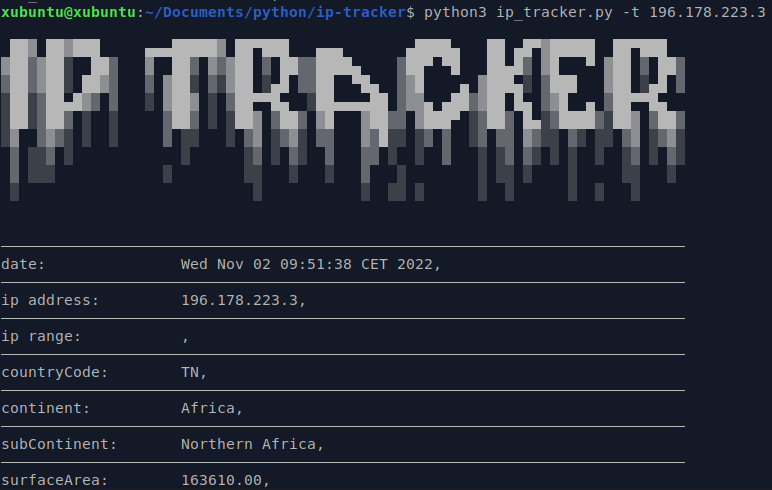
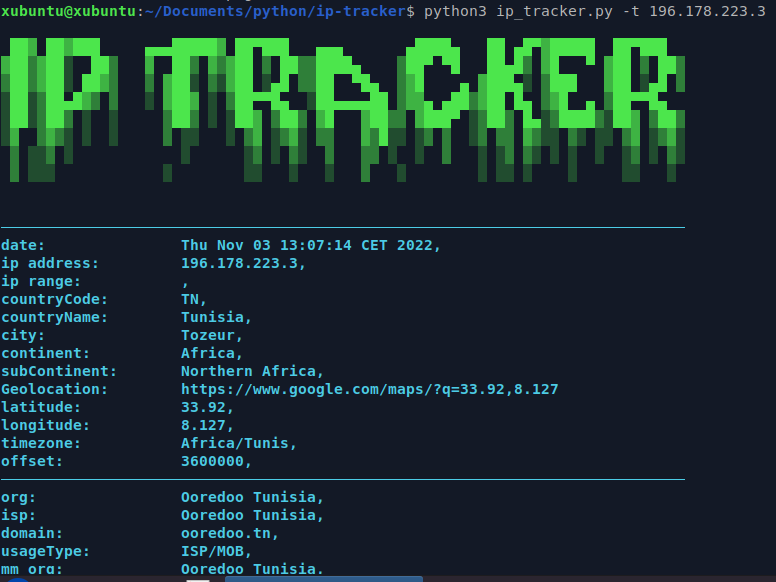
google maps link

Changed region(s): [[0.0, 0.0, 0.9948, 1.0]]

diff --git a/ip_tracker.py b/ip_tracker.py
@@ -3,7 +3,7 @@
 import argparse
 import requests
 import json
-import sys
+import sys, time
 
 
 base_url = 'https://geo.leadboxer.com/GeoIpEngine/'
@@ -15,8 +15,19 @@ args = parser.parse_args()
 
 ip = args.target if args.target else ''
 
-def printer(data):
-    print(
+HEADER = '\033[95m'
+OKBLUE = '\033[94m'
+OKCYAN = '\033[96m'
+OKGREEN = '\033[92m'
+WARNING = '\033[93m'
+FAIL = '\033[91m'
+ENDC = '\033[0m'
+BOLD = '\033[1m'
+UNDERLINE = '\033[4m'
+
+def banner():
+    
+    print(OKGREEN +
 '''
  ██▓ ██▓███     ▄▄▄█████▓ ██▀███   ▄▄▄       ▄████▄   ██ ▄█▀▓█████  ██▀███  
 ▓██▒▓██░  ██▒   ▓  ██▒ ▓▒▓██ ▒ ██▒▒████▄    ▒██▀ ▀█   ██▄█▒ ▓█   ▀ ▓██ ▒ ██▒
@@ -26,72 +37,51 @@ def printer(data):
 ░▓  ▒▓▒░ ░  ░     ▒ ░░   ░ ▒▓ ░▒▓░ ▒▒   ▓▒█░░ ░▒ ▒  ░▒ ▒▒ ▓▒░░ ▒░ ░░ ▒▓ ░▒▓░
  ▒ ░░▒ ░            ░      ░▒ ░ ▒░  ▒   ▒▒ ░  ░  ▒   ░ ░▒ ▒░ ░ ░  ░  ░▒ ░ ▒░
  ▒ ░░░            ░        ░░   ░   ░   ▒   ░        ░ ░░ ░    ░     ░░   ░ 
- ░                          ░           ░  ░░ ░      ░  ░      ░  ░   ░     
 '''
-            )
-    print(
+)
+
+def printer(data):
+    print(BOLD + OKCYAN + 
 f'''
 ────────────────────────────────────────────────────────────────────────────
 date:               {data["date"]},
-────────────────────────────────────────────────────────────────────────────
 ip address:         {data["ip"]},
-────────────────────────────────────────────────────────────────────────────
 ip range:           {data["ip range"]},
-────────────────────────────────────────────────────────────────────────────
 countryCode:        {data["countryCode"]},
-────────────────────────────────────────────────────────────────────────────
-continent:          {data["continent"]},
-────────────────────────────────────────────────────────────────────────────
-subContinent:       {data["subContinent"]},
-────────────────────────────────────────────────────────────────────────────
-surfaceArea:        {data["surfaceArea"]},
-────────────────────────────────────────────────────────────────────────────
-population:         {data["population"]},
-────────────────────────────────────────────────────────────────────────────
-lifeExpectency:     {data["lifeExpectency"]},
-────────────────────────────────────────────────────────────────────────────
-GNP:                {data["GNP"]},
-────────────────────────────────────────────────────────────────────────────
 countryName:        {data["countryName"]},
-────────────────────────────────────────────────────────────────────────────
-region:             {data["region"]},
-────────────────────────────────────────────────────────────────────────────
-regionName:         {data["regionName"]},
-────────────────────────────────────────────────────────────────────────────
 city:               {data["city"]},
-────────────────────────────────────────────────────────────────────────────
+continent:          {data["continent"]},
+subContinent:       {data["subContinent"]},
+Geolocation:        https://www.google.com/maps/?q={data["latitude"]},{data["longitude"]}
 latitude:           {data["latitude"]},
-────────────────────────────────────────────────────────────────────────────
 longitude:          {data["longitude"]},
-────────────────────────────────────────────────────────────────────────────
 timezone:           {data["timezone"]},
-────────────────────────────────────────────────────────────────────────────
-offset:             {data["timezone"]},
-────────────────────────────────────────────────────────────────────────────
-world currency:     {data["world currency"]},
-────────────────────────────────────────────────────────────────────────────
-EU member:          {data["EU member"]},
+offset:             {data["offset"]},
 ────────────────────────────────────────────────────────────────────────────
 org:                {data["org"]},
-────────────────────────────────────────────────────────────────────────────
 isp:                {data["isp"]},
-────────────────────────────────────────────────────────────────────────────
 domain:             {data["domain"]},
-────────────────────────────────────────────────────────────────────────────
 usageType:          {data["usageType"]},
-────────────────────────────────────────────────────────────────────────────
 mm_org:             {data["mm_org"]},
-────────────────────────────────────────────────────────────────────────────
 mm_isp:             {data["mm_isp"]},
-────────────────────────────────────────────────────────────────────────────
 i2l_isp:            {data["i2l_isp"]},
-────────────────────────────────────────────────────────────────────────────
 i2l_domain:         {data["i2l_domain"]},
-────────────────────────────────────────────────────────────────────────────
 i2l_type:           {data["i2l_type"]}
-────────────────────────────────────────────────────────────────────────────s
+────────────────────────────────────────────────────────────────────────────
+region:             {data["region"]},
+regionName:         {data["regionName"]},
+surfaceArea:        {data["surfaceArea"]},
+population:         {data["population"]},
+lifeExpectency:     {data["lifeExpectency"]},
+GNP:                {data["GNP"]},
+world currency:     {data["world currency"]},
+EU member:          {data["EU member"]},
+────────────────────────────────────────────────────────────────────────────
 '''
             )
+
+
+banner()
 
 try:
     response = requests.get(base_url + ip + '?jsonp')
